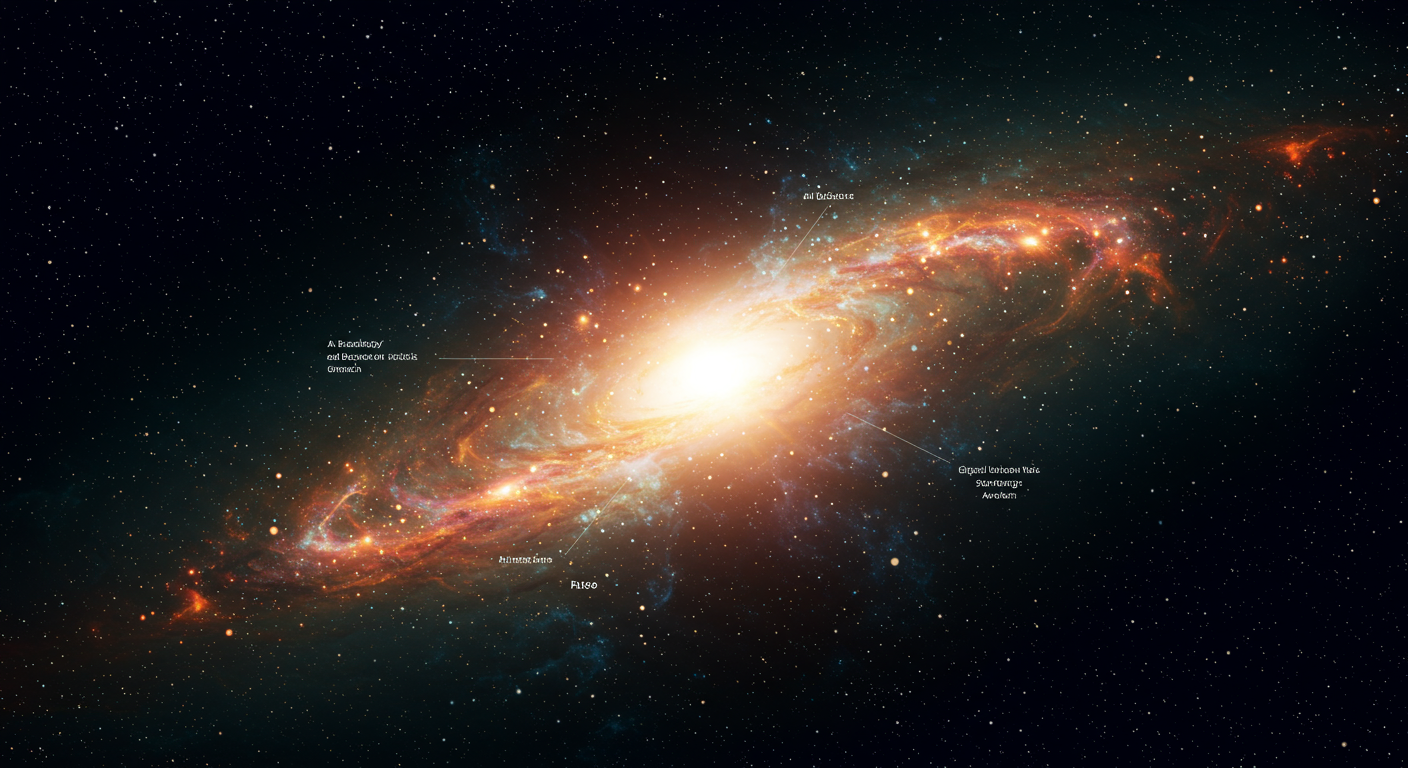
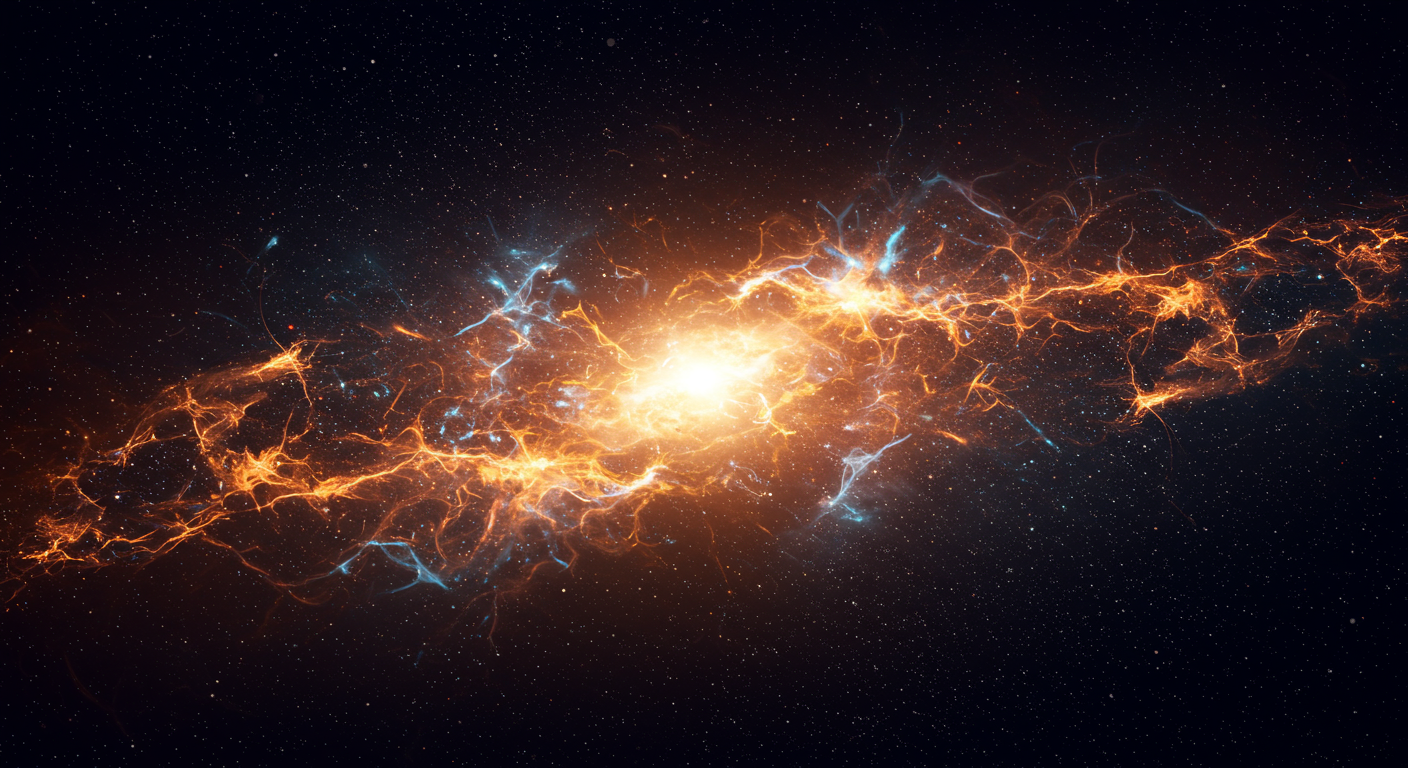
New frontpage

diff --git a/script/index.py b/script/index.py
@@ -73,11 +73,11 @@ Output Format (Markdown):
 layout: home
 ---
 
-![AI generated image]({imagename})\\\\
+![AI generated image]({imagename})\n
 <!-- START OF WEBSITE SUMMARY -->
-<!-- END OF WEBSITE SUMMARY -->\\\\
-Post generated by [{text_model}]({url_model}) using [this prompt]({prompt_save}).\\\\
-Image generated by [{image_model}]({url_model}) using [this prompt]({image_prompt_save}).\\\\
+<!-- END OF WEBSITE SUMMARY -->\n
+Content generated by [{text_model}]({url_model}) using [this prompt]({prompt_save}).\n
+Image generated by [{image_model}]({url_model}) using [this prompt]({image_prompt_save}).
 ------------------------------------------------------------------------------------
 ====================================================================================
 Section 1: Content Creation Instructions
@@ -88,14 +88,15 @@ Section 1: Content Creation Instructions
      - **Introduction:** Briefly describe who we are, our research areas, and our mission.
      - **Research Focus:** Highlight our primary research themes, innovative methodologies, and technical contributions, with special emphasis on AI.
      - **Highlight Achievements:** Mention key publications and significant milestones that underscore the impact of our work.
-     - **Outline Future Directions:** Summarize emerging projects and research avenues as detailed in our grant application.
+     - **Outline Future Directions:** Summarize emerging projects and research avenues.
    - When referring to any research topic, include a Markdown-formatted link to a relevant arXiv paper (e.g., [non-parametric reconstructions](https://arxiv.org/abs/2503.08658)).
-   - The name of the group is 'The Handley Research Group.' and the website is hosted at https://www.handley-lab.co.uk
+   - Use bullet points, subheadings, or other formatting to enhance readability.
+   - The name of the group is 'The Handley Research Group.'
 
 2. **Integrate Data from Multiple Sources:**
-   - **Published Papers (Markdown):**  A list of all our published papers. 
-   - **Research Group Structure (YAML):**  The members of our group and our organizational history.
-   - **Future Research Directions (LaTeX):**  A successful grant application detailing our future research plans.
+   - **Published Papers (Markdown):**  A list of all our published papers. These papers are available on arXiv, and you should include a link to each paper mentioned in the narrative.
+   - **Research Group Structure (YAML):**  The members of our group and our organizational history. There will not be a link to this, but you can use it to inform the narrative.
+   - **Future Research Directions (LaTeX):**  A successful grant application detailing our future research plans. There will not be a link to this, but you can use it to inform the narrative. Do not mention the grant application.
    - Seamlessly weave insights from these three sources into a cohesive and compelling narrative.
 
 3. **Emphasize AI Research:**

diff --git a/script/posts/arxiv.py b/script/posts/arxiv.py
@@ -104,12 +104,12 @@ title:  "{metadata.title}"
 date:   {dt.strftime('%Y-%m-%d')}
 categories: papers
 ---
-![AI generated image]({imagename})\\\\
+![AI generated image]({imagename})\n
 <!-- BEGINNING OF GENERATED POST -->
-<!-- END OF GENERATED POST -->\\\\
-{images}\\\\
-Post generated by [{text_model}]({url_model}) using [this prompt]({prompt_save}).\\\\
-Image generated by [{image_model}]({url_model}) using [this prompt]({image_prompt_save}).\\\\
+<!-- END OF GENERATED POST -->\n
+{images}\n
+Content generated by [{text_model}]({url_model}) using [this prompt]({prompt_save}).\n
+Image generated by [{image_model}]({url_model}) using [this prompt]({image_prompt_save}).\n
 ------------------------------------------------------------------------------------
 ====================================================================================
 
@@ -121,7 +121,8 @@ Section 1: Content Creation Instructions
 
 1. **Generate the Page Body:**
    - Write a well-composed, engaging narrative that is suitable for a scholarly audience interested in advanced AI and astrophysics.
-   - Ensure the narrative is original and reflective of the tone and style in the "Homepage Content" block (provided below), but do not reuse its content verbatim.
+   - Ensure the narrative is original and reflective of the tone and style and content in the "Homepage Content" block (provided below), but do not reuse its content.
+   - Use bullet points, subheadings, or other formatting to enhance readability.
 
 2. **Highlight Key Research Details:**
    - Emphasize the contributions and impact of the paper, focusing on its methodology, significance, and context within current research.

diff --git a/index.md b/index.md
@@ -2,24 +2,48 @@
 layout: home
 ---
 
-![AI generated image](/assets/images/index.png)\\
+![AI generated image](/assets/images/index.png)
+
 <!-- START OF WEBSITE SUMMARY -->
-The Handley Research Group ([https://www.handley-lab.co.uk](https://www.handley-lab.co.uk)) is dedicated to pushing the boundaries of cosmological understanding through the development and application of cutting-edge artificial intelligence and Bayesian statistical inference methods. Our research spans a wide range of topics, from the very first stars and galaxies to the nature of dark matter, dark energy, and the fundamental laws of gravity. We are committed to developing open-source software and fostering a collaborative research environment.
+The Handley Research Group is dedicated to advancing our understanding of the Universe through the development and application of cutting-edge artificial intelligence and Bayesian statistical inference methods. Our research spans a wide range of cosmological topics, from the very first moments of the Universe to the nature of dark matter and dark energy, with a particular focus on analyzing complex datasets from next-generation surveys.
 
-Our core research themes include:
+## Research Focus
 
-* **Simulation-Based Inference (SBI):** We are developing next-generation SBI methods for analyzing complex cosmological datasets like the Cosmic Microwave Background (CMB) and Baryon Acoustic Oscillations (BAO). This includes building realistic simulations of the Universe incorporating astrophysical effects and systematics, and training neural networks to efficiently perform parameter inference and model comparison (as outlined in our grant application [https://www.handley-lab.co.uk/future_research_directions](/future_research_directions.html)).
+Our core research revolves around developing innovative methodologies for analyzing large-scale cosmological datasets. We specialize in Simulation-Based Inference (SBI), a powerful technique that leverages our ability to simulate realistic universes to perform robust parameter inference and model comparison, even when likelihood functions are intractable ([LSBI framework](https://arxiv.org/abs/2501.03921)).  This focus allows us to tackle complex astrophysical and instrumental systematics that are challenging to model analytically ([Foreground map errors](https://arxiv.org/abs/2211.10448)).
 
-* **AI-driven Cosmological Parameter Estimation:**  We apply advanced AI techniques, including neural ratio estimation ([NRE](https://arxiv.org/abs/2207.11457)), to constrain cosmological parameters from CMB ([https://arxiv.org/abs/1908.00906](https://arxiv.org/abs/1908.00906)), BAO ([https://arxiv.org/abs/1701.08165](https://arxiv.org/abs/1701.08165)), and supernovae ([https://arxiv.org/abs/2312.02075](https://arxiv.org/abs/2312.02075)) data.  We are also exploring the use of AI to address the Hubble tension ([https://arxiv.org/abs/2312.02075](https://arxiv.org/abs/2312.02075)).
+A key aspect of our work is the development of next-generation SBI tools ([Gradient-guided Nested Sampling](https://arxiv.org/abs/2312.03911)), particularly those based on neural ratio estimation. These methods offer significant advantages in efficiency and scalability for high-dimensional inference problems ([NRE-based SBI](https://arxiv.org/abs/2207.11457)).  We are also pioneering the application of these methods to the analysis of Cosmic Microwave Background ([CMB](https://arxiv.org/abs/1908.00906)) data, Baryon Acoustic Oscillations ([BAO](https://arxiv.org/abs/1701.08165)) from surveys like DESI and 4MOST, and gravitational wave observations.
 
-* **21-cm Cosmology:** We are developing novel Bayesian data analysis techniques ([https://arxiv.org/abs/2207.11457](https://arxiv.org/abs/2207.11457)) to probe the Cosmic Dawn and Epoch of Reionization using the 21-cm signal. This includes developing robust foreground modelling techniques ([https://arxiv.org/abs/2211.10448](https://arxiv.org/abs/2211.10448)), accounting for instrumental systematics ([https://arxiv.org/abs/2204.04445](https://arxiv.org/abs/2204.04445)), and developing fast, accurate emulators for the 21-cm signal ([https://arxiv.org/abs/2104.04336](https://arxiv.org/abs/2104.04336)). We are also investigating the impact of the primordial stellar initial mass function ([IMF](https://arxiv.org/abs/2202.02099)) and cosmic rays ([https://arxiv.org/abs/2304.07201](https://arxiv.org/abs/2304.07201)) on the 21-cm signal.
+Our AI initiatives extend beyond standard density estimation to encompass a broader range of machine learning techniques, such as:
 
-* **Primordial Cosmology:**  We study the physics of the very early Universe, including inflation ([https://arxiv.org/abs/1908.00906](https://arxiv.org/abs/1908.00906)),  primordial non-Gaussianity ([https://arxiv.org/abs/2104.03016](https://arxiv.org/abs/2104.03016)), and the implications of spatial curvature ([https://arxiv.org/abs/1907.08524](https://arxiv.org/abs/1907.08524)).  We have developed innovative methods for reconstructing the primordial power spectrum ([https://arxiv.org/abs/2503.08658](https://arxiv.org/abs/2503.08658)) and the inflationary potential.
+* **Emulator Development:** We develop fast and accurate emulators of complex astrophysical signals ([globalemu](https://arxiv.org/abs/2104.04336)) for efficient parameter exploration and model comparison ([Neural network emulators](https://arxiv.org/abs/2503.13263)).
+* **Bayesian Neural Networks:** We explore the full posterior distribution of Bayesian neural networks for improved generalization and interpretability ([BNN marginalisation](https://arxiv.org/abs/2205.11151)).
+* **Automated Model Building:**  We are developing novel techniques to automate the process of building and testing theoretical cosmological models using a combination of symbolic computation and machine learning ([Automated model building](https://arxiv.org/abs/2006.03581)).
 
-* **Testing General Relativity:**  Our work extends to testing Einstein's theory of gravity on cosmological scales, utilizing data from various sources, including gravitational waves ([https://arxiv.org/abs/2411.17663](https://arxiv.org/abs/2411.17663)).
+Additionally, we are active in the development and application of advanced sampling methods like nested sampling ([Nested sampling review](https://arxiv.org/abs/2205.15570)), including dynamic nested sampling ([Dynamic nested sampling](https://arxiv.org/abs/1704.03459)) and its acceleration through techniques like posterior repartitioning ([Accelerated nested sampling](https://arxiv.org/abs/2411.17663)).
 
-Our group has a strong record of publications in high-impact journals, contributing significantly to the field of cosmology. We actively participate in international collaborations, including the GAMBIT collaboration, and are committed to open-source software development, making our tools and techniques accessible to the wider scientific community. Our future research, as detailed in our grant application ([https://www.handley-lab.co.uk/future_research_directions](/future_research_directions.html)), focuses on developing even more advanced SBI methods, including neural ratio estimation and automated model building, to tackle the challenges posed by next-generation cosmological datasets.  We are particularly excited about exploring extensions to General Relativity and deepening our involvement in interdisciplinary collaborations within the GAMBIT framework.  We are also interested in investigating the potential of AI models ([https://arxiv.org/abs/2503.13263](https://arxiv.org/abs/2503.13263)) for enhancing scientific discovery.
-<!-- END OF WEBSITE SUMMARY -->\\
-Post generated by [gemini-1.5-pro](https://deepmind.google/technologies/gemini/) using [this prompt](/prompts/posts/index.md).\\
-Image generated by [imagen-3.0-generate-002](https://deepmind.google/technologies/gemini/) using [this prompt](/prompts/images/index.md).\\
+## Highlight Achievements
 
+Our group has a strong publication record in high-impact journals and on the arXiv preprint server. Some key highlights include:
+
+* Development of novel AI-driven methods for analyzing the 21-cm signal from the Cosmic Dawn ([21-cm analysis](https://arxiv.org/abs/2201.11531)).
+* Contributing to the Planck Collaboration's analysis of CMB data ([Planck 2018](https://arxiv.org/abs/1807.06205)).
+* Development of the PolyChord nested sampling software ([PolyChord](https://arxiv.org/abs/1506.00171)), which is now widely used in cosmological analyses.
+* Contributions to the GAMBIT global fitting framework ([GAMBIT CosmoBit](https://arxiv.org/abs/2009.03286)).
+* Applying SBI to constrain dark matter models ([Dirac Dark Matter EFTs](https://arxiv.org/abs/2106.02056)).
+
+## Future Directions
+
+We are committed to pushing the boundaries of cosmological analysis through our ongoing and future projects, including:
+
+* Applying SBI to test extensions of General Relativity ([Modified Gravity](https://arxiv.org/abs/2006.03581)).
+* Developing AI-driven tools for efficient and robust calibration of cosmological experiments ([Calibration for astrophysical experimentation](https://arxiv.org/abs/2307.00099)).
+* Exploring the use of transformers and large language models for automating the process of cosmological model building.
+* Applying our expertise to the analysis of data from next-generation surveys like Euclid, the Vera Rubin Observatory, and the Square Kilometre Array.  This will allow us to probe the nature of dark energy with increased precision ([Dynamical Dark Energy](https://arxiv.org/abs/2503.08658)), search for parity violation in the large-scale structure ([Parity Violation](https://arxiv.org/abs/2410.16030)), and explore a variety of other fundamental questions.
+
+
+
+<!-- END OF WEBSITE SUMMARY -->
+
+Content generated by [gemini-1.5-pro](https://deepmind.google/technologies/gemini/) using [this prompt](/prompts/posts/index.md).
+
+Image generated by [imagen-3.0-generate-002](https://deepmind.google/technologies/gemini/) using [this prompt](/prompts/images/index.md).

diff --git a/prompts/posts/index.md b/prompts/posts/index.md
@@ -9,11 +9,14 @@ Output Format (Markdown):
 layout: home
 ---
 
-![AI generated image](/assets/images/index.png)\\
+![AI generated image](/assets/images/index.png)
+
 <!-- START OF WEBSITE SUMMARY -->
-<!-- END OF WEBSITE SUMMARY -->\\
-Post generated by [gemini-1.5-pro](https://deepmind.google/technologies/gemini/) using [this prompt](/prompts/posts/index.md).\\
-Image generated by [imagen-3.0-generate-002](https://deepmind.google/technologies/gemini/) using [this prompt](/prompts/images/index.md).\\
+<!-- END OF WEBSITE SUMMARY -->
+
+Content generated by [gemini-1.5-pro](https://deepmind.google/technologies/gemini/) using [this prompt](/prompts/posts/index.md).
+
+Image generated by [imagen-3.0-generate-002](https://deepmind.google/technologies/gemini/) using [this prompt](/prompts/images/index.md).
 ------------------------------------------------------------------------------------
 ====================================================================================
 Section 1: Content Creation Instructions
@@ -24,14 +27,15 @@ Section 1: Content Creation Instructions
      - **Introduction:** Briefly describe who we are, our research areas, and our mission.
      - **Research Focus:** Highlight our primary research themes, innovative methodologies, and technical contributions, with special emphasis on AI.
      - **Highlight Achievements:** Mention key publications and significant milestones that underscore the impact of our work.
-     - **Outline Future Directions:** Summarize emerging projects and research avenues as detailed in our grant application.
+     - **Outline Future Directions:** Summarize emerging projects and research avenues.
    - When referring to any research topic, include a Markdown-formatted link to a relevant arXiv paper (e.g., [non-parametric reconstructions](https://arxiv.org/abs/2503.08658)).
-   - The name of the group is 'The Handley Research Group.' and the website is hosted at https://www.handley-lab.co.uk
+   - Use bullet points, subheadings, or other formatting to enhance readability.
+   - The name of the group is 'The Handley Research Group.'
 
 2. **Integrate Data from Multiple Sources:**
-   - **Published Papers (Markdown):**  A list of all our published papers. 
-   - **Research Group Structure (YAML):**  The members of our group and our organizational history.
-   - **Future Research Directions (LaTeX):**  A successful grant application detailing our future research plans.
+   - **Published Papers (Markdown):**  A list of all our published papers. These papers are available on arXiv, and you should include a link to each paper mentioned in the narrative.
+   - **Research Group Structure (YAML):**  The members of our group and our organizational history. There will not be a link to this, but you can use it to inform the narrative.
+   - **Future Research Directions (LaTeX):**  A successful grant application detailing our future research plans. There will not be a link to this, but you can use it to inform the narrative. Do not mention the grant application.
    - Seamlessly weave insights from these three sources into a cohesive and compelling narrative.
 
 3. **Emphasize AI Research:**

diff --git a/prompts/images/index.md b/prompts/images/index.md
@@ -1,1 +1,9 @@
-Create an abstract image suitable for the header of a website for a cosmology research group. The group uses AI and Bayesian statistics to study topics like the early universe, dark matter, dark energy, and alternative theories of gravity. The image should evoke a sense of complexity, discovery, and the vastness of space, without depicting any specific cosmological phenomena (no stars, galaxies, planets, etc.) or including any text or numbers.  Consider using swirling patterns, nebula-like textures, or representations of interconnected networks to symbolize the interconnectedness of these research areas.  The overall aesthetic should be modern, professional, and intriguing, suitable for a scientific research group.  The color palette can be vibrant or muted, but should be harmonious and visually appealing.  Think "artistic representation of exploring the unknown universe through data".
+Create an abstract image that evokes the research of the Handley Research Group, which focuses on cosmology, artificial intelligence, and Bayesian statistics.  The image should suggest the vastness and complexity of the universe, while hinting at the intricate patterns and connections revealed through data analysis and AI.  Consider incorporating elements like:
+
+* **Cosmic webs or filaments:**  Representing the large-scale structure of the universe.
+* **Nebulae or galaxies:** Symbolizing the beauty and mystery of the cosmos.
+* **Flowing, interconnected lines or networks:**  Illustrating the interconnectedness of data and the flow of information.
+* **Abstract geometric shapes:**  Hinting at the mathematical and computational aspects of the research.
+* **A sense of depth and dimensionality:**  Conveying the exploration of high-dimensional parameter spaces.
+
+The color palette should be sophisticated and evocative, possibly using deep blues, purples, and oranges.  Avoid literal representations of telescopes, computers, or equations.  The overall impression should be one of wonder, exploration, and discovery.  The image should be suitable for use as a header image on a website.  The style should be professional and high-quality, suitable for a scientific research group.
